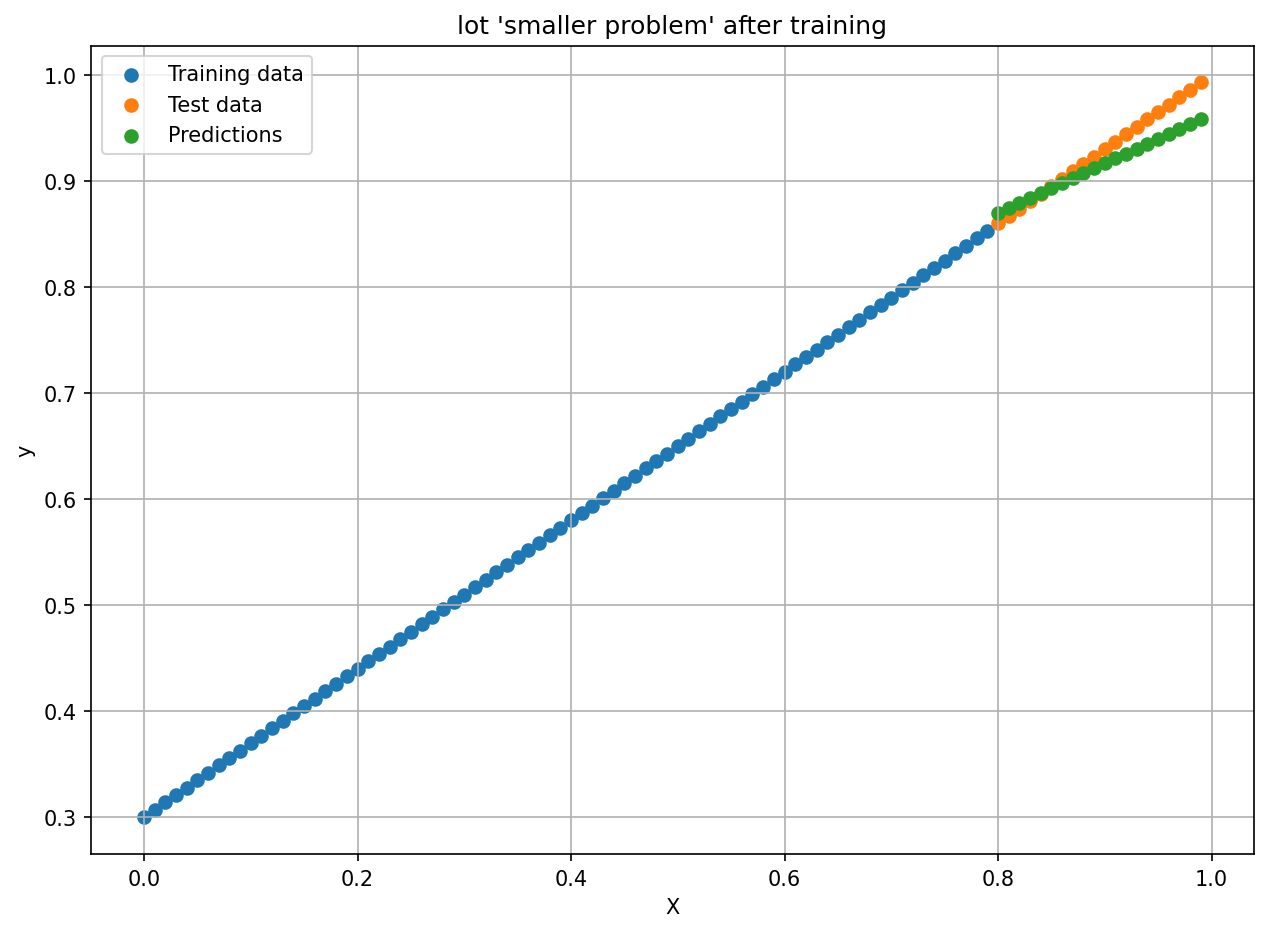
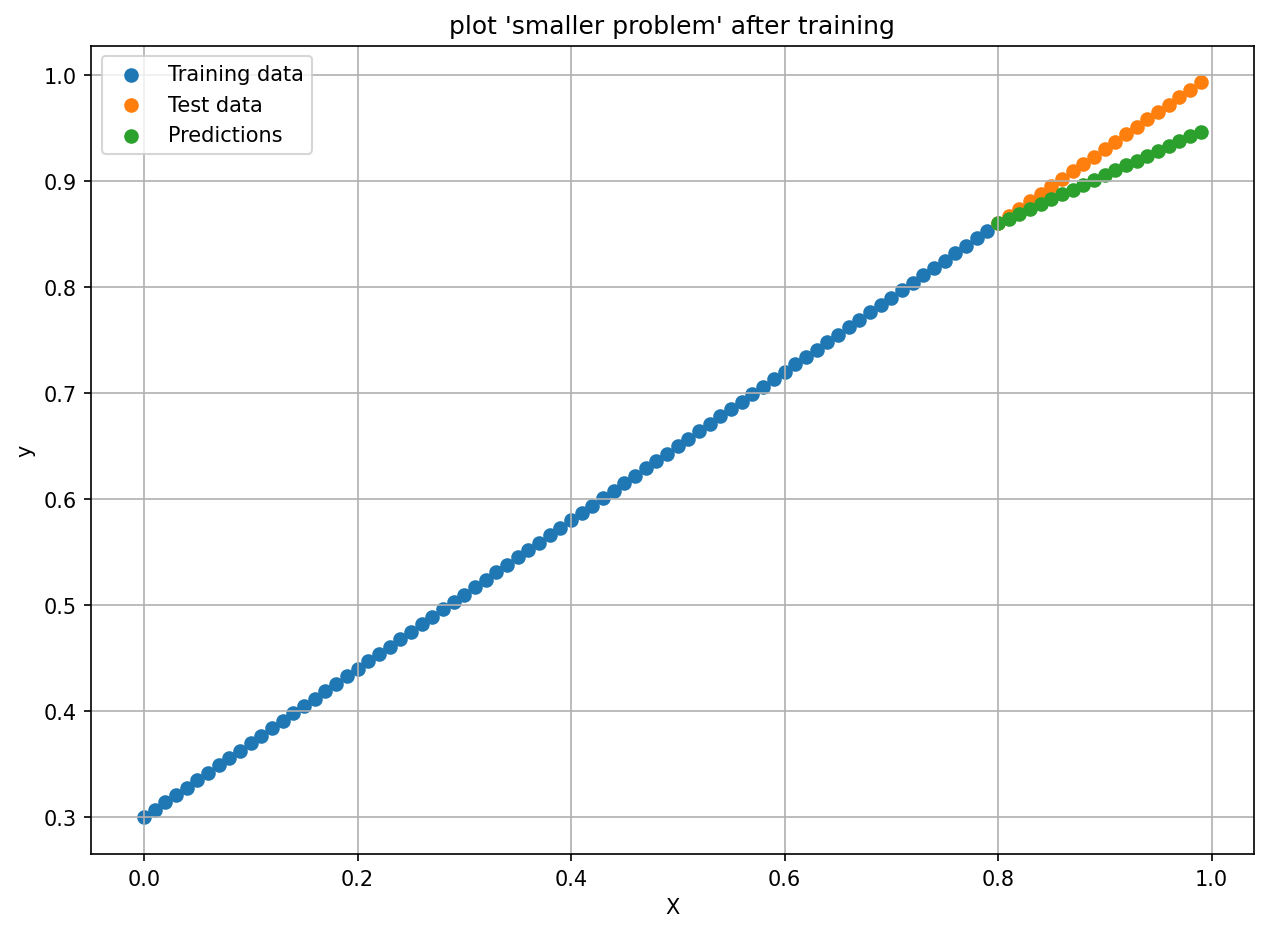
start creating non-linear model

Changed region(s): [[0.3383, 0.0, 0.7074, 0.0622], [0.7689, 0.1245, 0.9535, 0.2489]]

diff --git a/lessons/section4_pytorch_neural_network_classification/src/b_71_to_x_nn_classification.py b/lessons/section4_pytorch_neural_network_classification/src/b_71_to_x_nn_classification.py
@@ -454,9 +454,17 @@ y_regression = weight * X_regression + bias
 
 # split train/test
 train_split = int(0.8 * len(X_regression))  # 80% of X will be training
-X_train_regression, y_train_regression = X_regression[:train_split], y_regression[:train_split]
-X_test_regression, y_test_regression = X_regression[train_split:], y_regression[train_split:]
-print(f"len of X_train_regression {len(X_train_regression)} | X_test_regression {len(X_test_regression)}")
+X_train_regression, y_train_regression = (
+    X_regression[:train_split],
+    y_regression[:train_split],
+)
+X_test_regression, y_test_regression = (
+    X_regression[train_split:],
+    y_regression[train_split:],
+)
+print(
+    f"len of X_train_regression {len(X_train_regression)} | X_test_regression {len(X_test_regression)}"
+)
 
 plot_prediction(
     train_data=X_train_regression,
@@ -489,18 +497,24 @@ torch.manual_seed(42)
 torch.cuda.manual_seed(42)
 
 # Epochs
-epochs = 2000
+epochs = 500
 
 # Put the data on target
-X_train_regression, y_train_regression = X_train_regression.to(device), y_train_regression.to(device)
-X_test_regression, y_test_regression = X_test_regression.to(device), y_test_regression.to(device)
+X_train_regression, y_train_regression = X_train_regression.to(
+    device
+), y_train_regression.to(device)
+X_test_regression, y_test_regression = X_test_regression.to(
+    device
+), y_test_regression.to(device)
 
 # Training
 for epoch in range(epochs):
+    # training
     similar_structure_model.train()
-
     y_prediction_train_regression = similar_structure_model(X_train_regression)
-    loss_train_regression: torch.Tensor = loss_fn_l1(y_prediction_train_regression, y_train_regression)
+    loss_train_regression: torch.Tensor = loss_fn_l1(
+        y_prediction_train_regression, y_train_regression
+    )
     optimizer_sdg_regression.zero_grad()
     loss_train_regression.backward()
     optimizer_sdg_regression.step()
@@ -509,15 +523,17 @@ for epoch in range(epochs):
     similar_structure_model.eval()
     with torch.inference_mode():
         y_prediction_test_regression = similar_structure_model(y_test_regression)
-        loss_test_regression: torch.Tensor = loss_fn_l1(y_prediction_test_regression, y_test_regression)
-    
+        loss_test_regression: torch.Tensor = loss_fn_l1(
+            y_prediction_test_regression, y_test_regression
+        )
+
     # Printing out
     if epoch % 100 == 0:
         print(
-                f"Epoch: {epoch} | "
-                f"Training loss: {loss_train_regression:.5f} | "
-                f"Test loss: {loss_test_regression:.5f}"
-            )
+            f"Epoch: {epoch} | "
+            f"Training loss: {loss_train_regression:.5f} | "
+            f"Test loss: {loss_test_regression:.5f}"
+        )
 
 # Plot the data after training
 similar_structure_model.eval()
@@ -531,5 +547,42 @@ plot_prediction(
     test_labels=y_test_regression,
     predictions=y_prediction_after_training_regression,
     fig_save_path="lessons/section4_pytorch_neural_network_classification/src/b_smaller_problem_linear_data_after_training.png",
-    title="lot 'smaller problem' after training",
+    title="plot 'smaller problem' after training",
 )
+
+"""
+6. The missing piece of model here: non-linearity
+* What patterns could be drawn if there is an infinite amount of a straight and non-straight lines?
+In machine learning terms: an infinite (very large number, but finite of course) of linear and non-linear functions.
+"""
+
+"""
+6.1 Recreating non-linear data (red and blue circles)
+"""
+
+# Make and plot data
+n_samples = 1000
+
+X, y = make_circles(
+    n_samples=n_samples,
+    noise=0.03,
+    random_state=42,
+)
+
+plt.figure(figsize=(12, 10))
+plt.scatter(X[:, 0], X[:, 1], c=y, cmap="RdYlBu")
+plt.savefig(
+    "lessons/section4_pytorch_neural_network_classification/src/b_another_cicle_line_574.png"
+)
+
+# Convert data to tensors then to train and test split
+X = (
+    torch.from_numpy(X).type(torch.float32).to(device)
+)  # need torch.float32 because numpy default type is float 64
+y = torch.from_numpy(y).type(torch.float32).to(device)
+
+X_train, X_test, y_train, y_test = train_test_split(
+    X, y, test_size=0.2, random_state=42
+)
+print(X_train[:5])
+print(y_train[:5])

diff --git a/lessons/section4_pytorch_neural_network_classification/src/c_87_to_x_build_nonlinear_model.py b/lessons/section4_pytorch_neural_network_classification/src/c_87_to_x_build_nonlinear_model.py
@@ -1,0 +1,54 @@
+import torch
+from torch import nn
+from sklearn.datasets import make_circles
+from sklearn.model_selection import train_test_split
+import pandas as pd
+from numpy import ndarray
+import matplotlib.pyplot as plt
+import requests
+from pathlib import Path
+from common.helper_fucntion import plot_decision_boundary
+from lessons.section3_pytorch_workflow.common import plot_prediction
+
+from common.device import get_best_device, print_device_info
+
+# Make device agnostic code
+device = get_best_device()
+print_device_info(device=device)
+
+"""
+6. The missing piece of model here: non-linearity
+* What patterns could be drawn if there is an infinite amount of a straight and non-straight lines?
+In machine learning terms: an infinite (very large number, but finite of course) of linear and non-linear functions.
+"""
+
+"""
+6.1 Recreating non-linear data (red and blue circles)
+"""
+
+# Make and plot data
+n_samples = 1000
+
+X, y = make_circles(
+    n_samples=n_samples,
+    noise=0.03,
+    random_state=42,
+)
+
+plt.figure(figsize=(12, 10))
+plt.scatter(X[:, 0], X[:, 1], c=y, cmap="RdYlBu")
+plt.savefig(
+    "lessons/section4_pytorch_neural_network_classification/src/c_another_cicle_line_41.png"
+)
+
+# Convert data to tensors then to train and test split
+X = (
+    torch.from_numpy(X).type(torch.float32).to(device)
+)  # need torch.float32 because numpy default type is float 64
+y = torch.from_numpy(y).type(torch.float32).to(device)
+
+X_train, X_test, y_train, y_test = train_test_split(
+    X, y, test_size=0.2, random_state=42
+)
+print(X_train[:5])
+print(y_train[:5])
